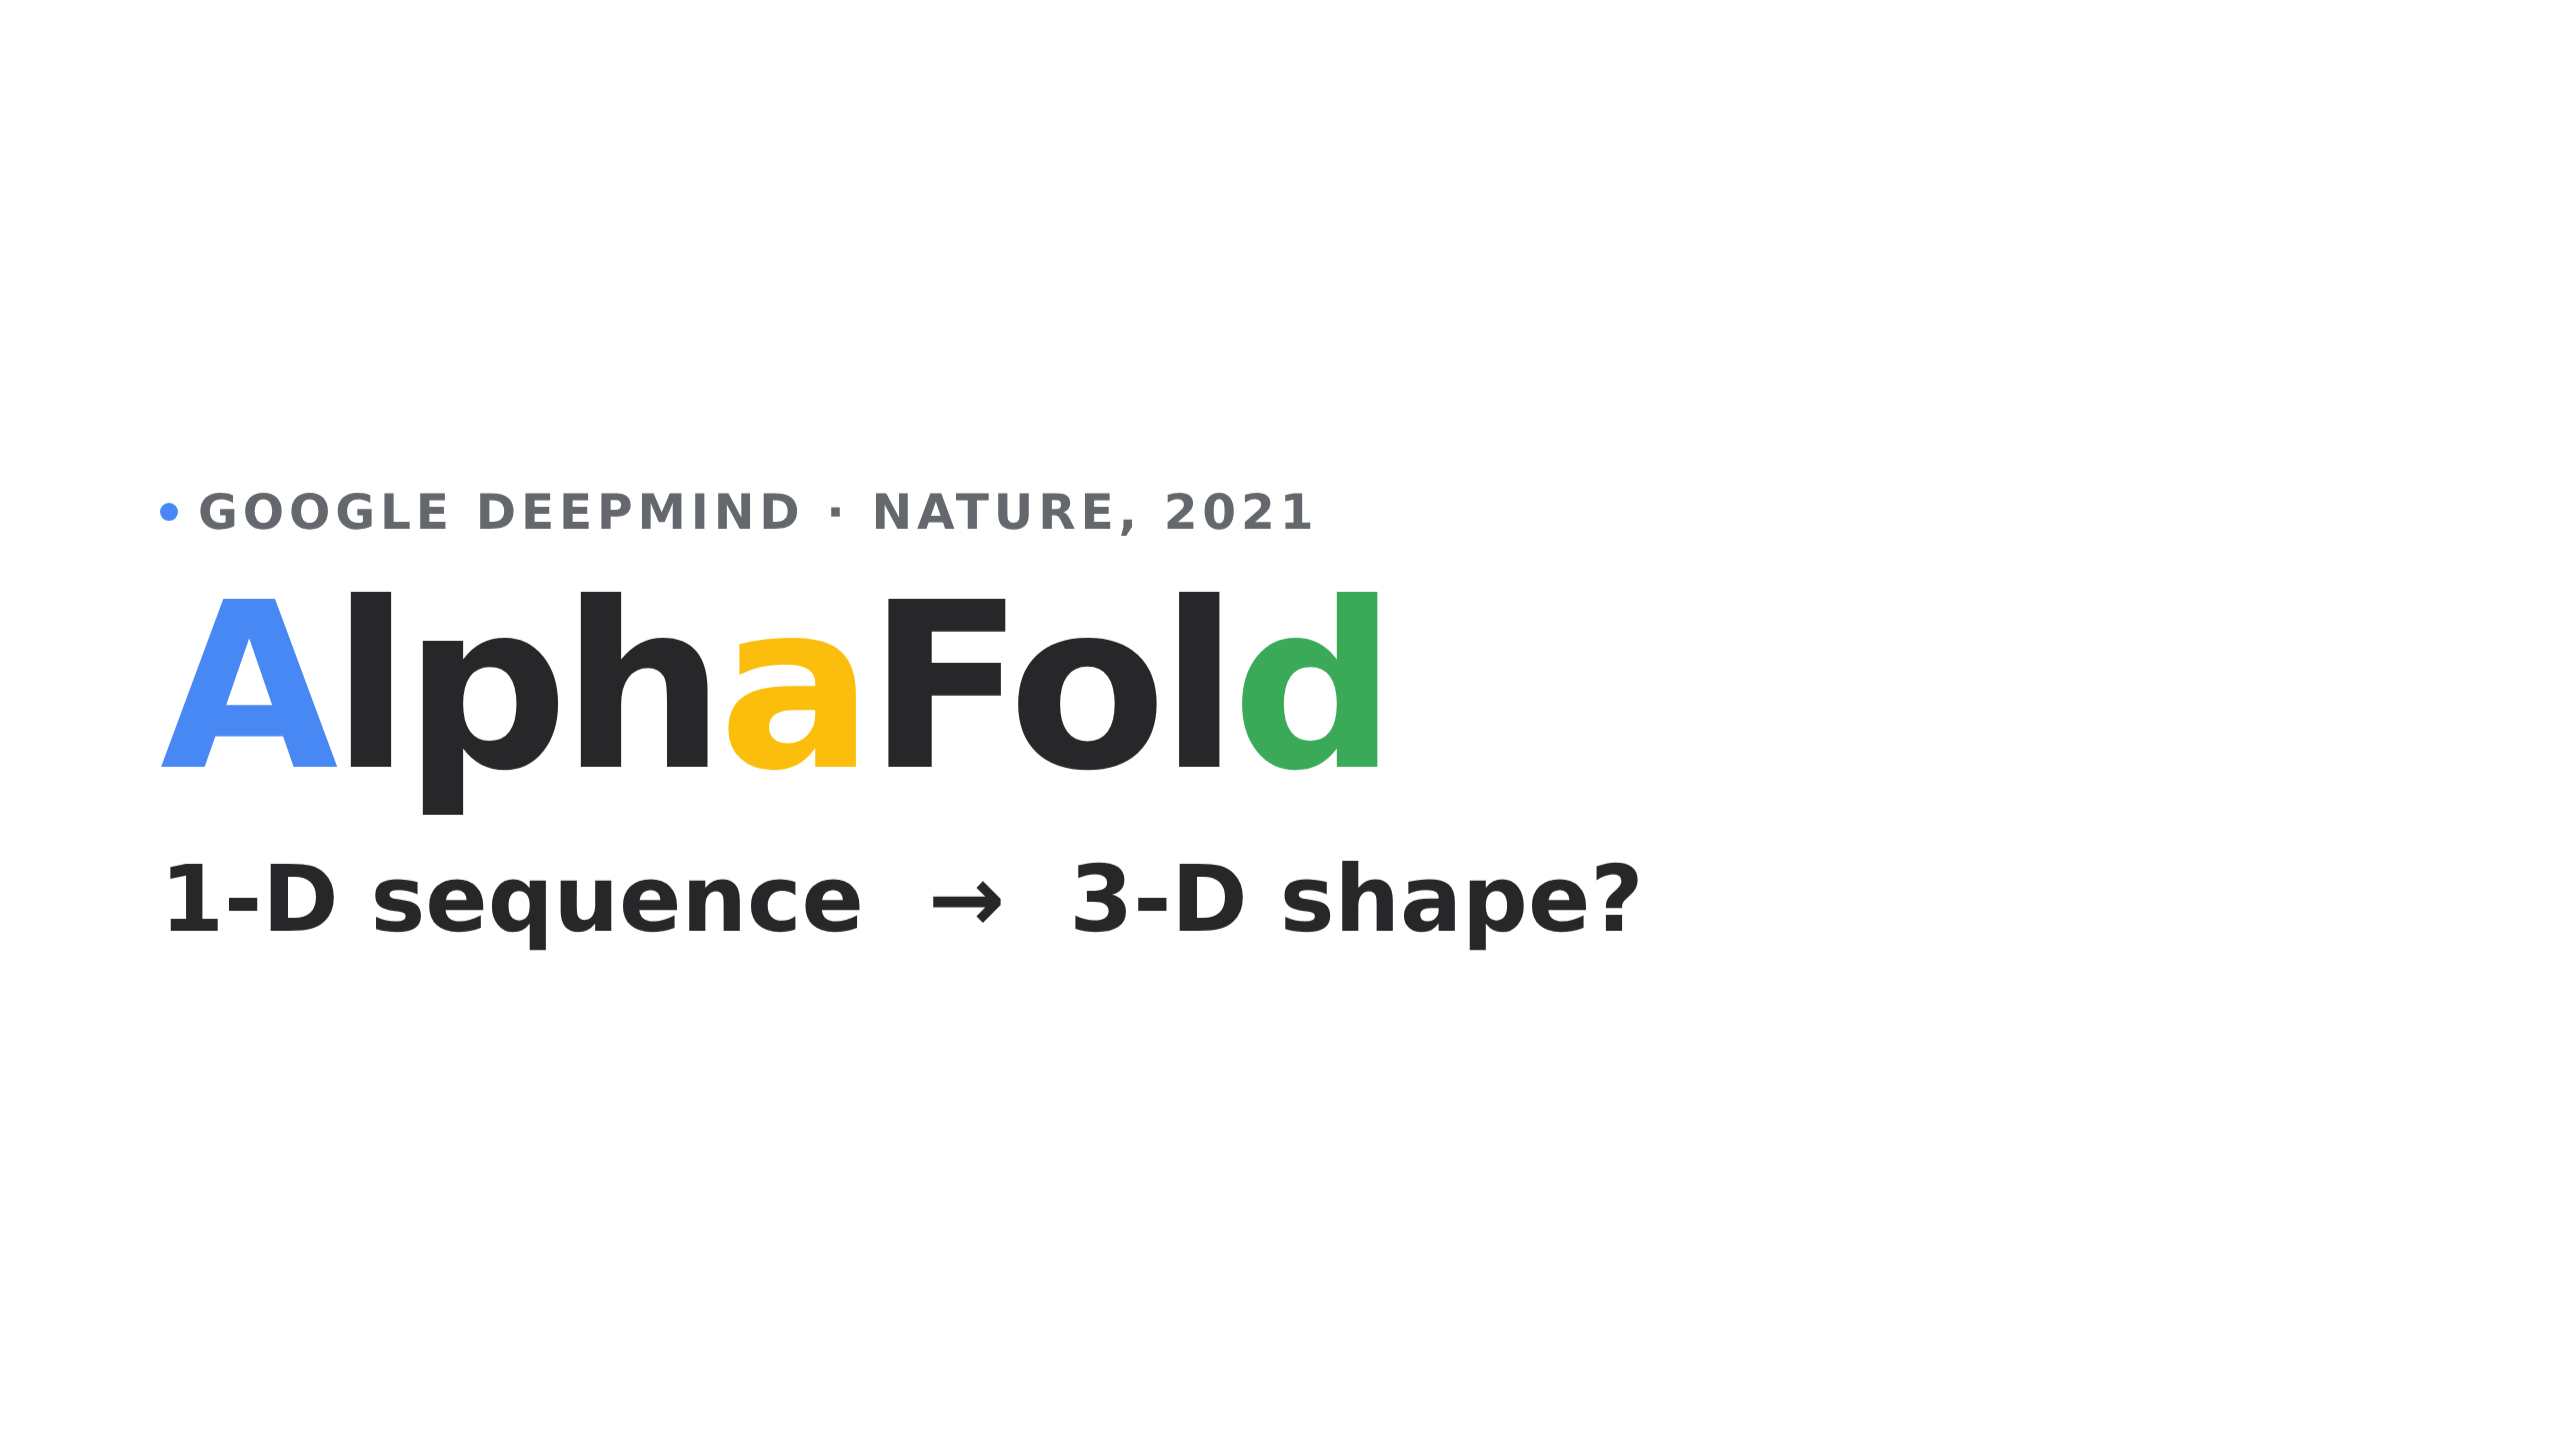
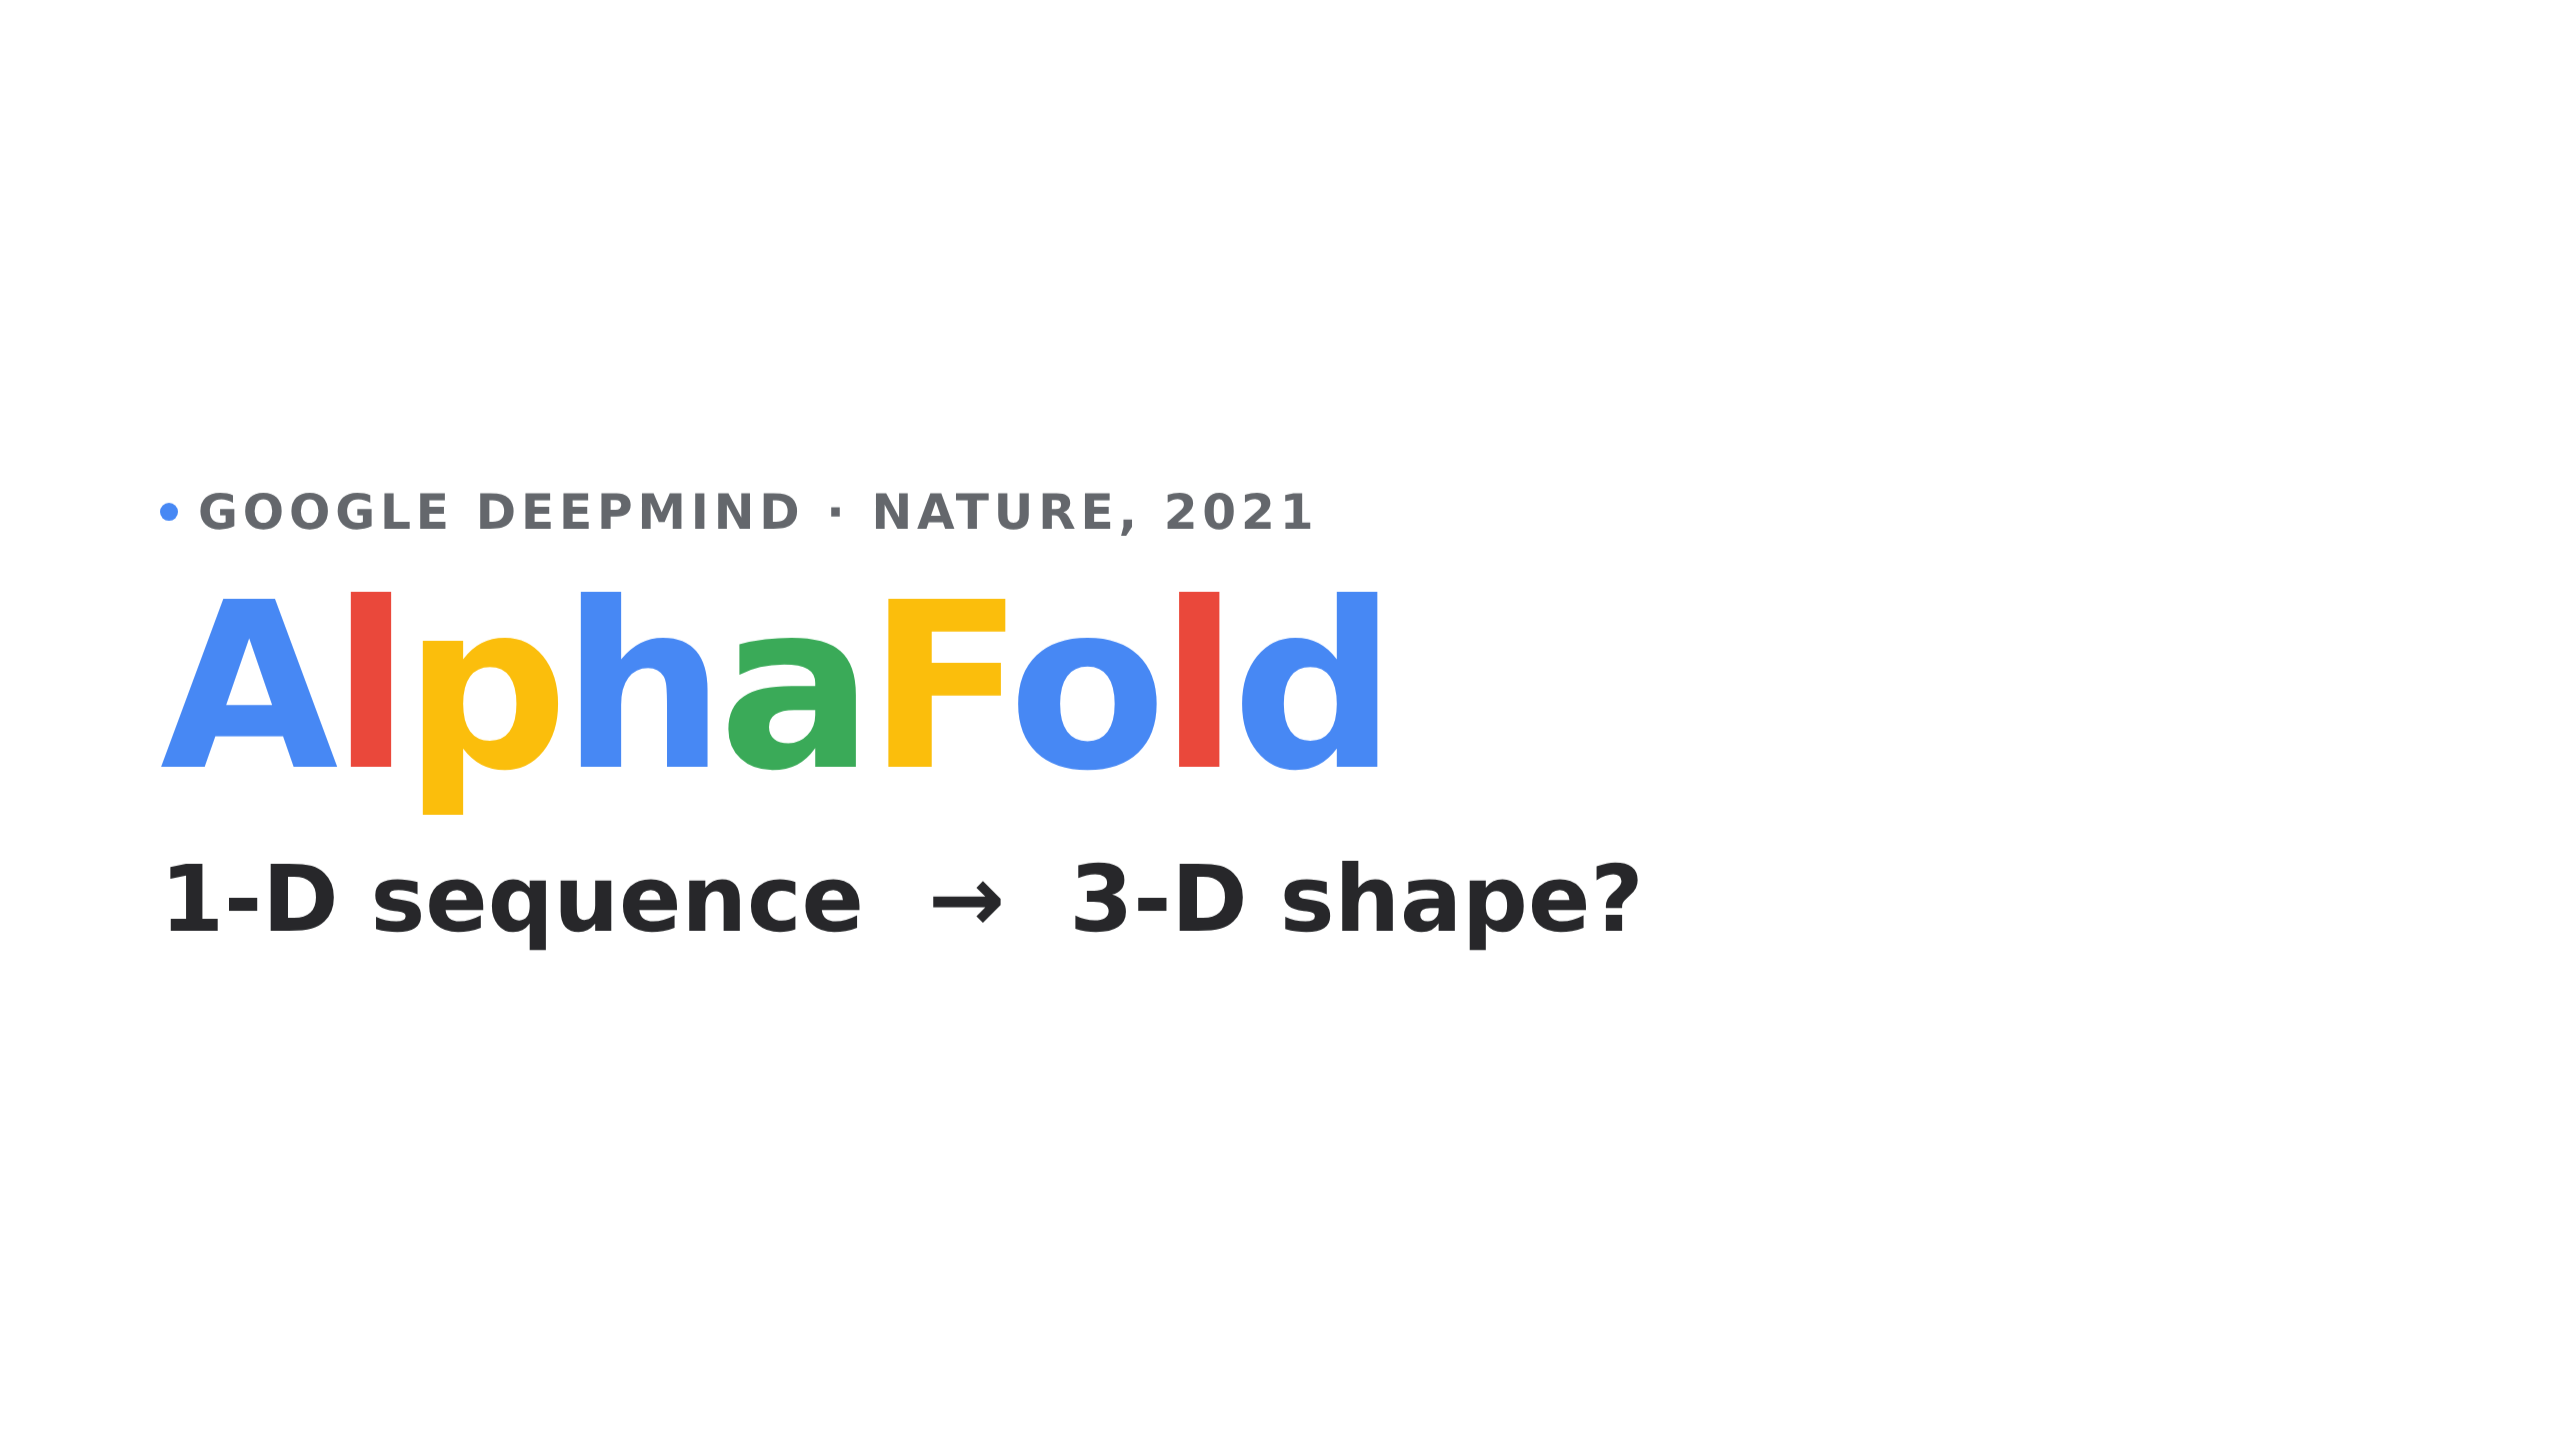
Restore full Google-color wordmark, keep black subtitle
Claude-Session: https://claude.ai/code/session_01Bs5QxwcQxX81M5Q77HARNf

Changed region(s): [[0.125, 0.4062, 0.5625, 0.5625]]

diff --git a/presentation/alphafold.html b/presentation/alphafold.html
@@ -122,12 +122,12 @@
   /* ---------- title fold ---------- */
   .title-wrap { display:flex; flex-direction:column; gap: clamp(18px,3vh,30px); }
   .wordmark { font-weight:700; letter-spacing:-.03em; }
-  /* calmer wordmark: ink base with three Google accents evenly spaced (A blue · a yellow · d green) */
-  .wordmark .a1{color:var(--g-blue);} .wordmark .a2{color:var(--ink);}
-  .wordmark .a3{color:var(--ink);} .wordmark .a4{color:var(--ink);}
-  .wordmark .a5{color:var(--g-yellow);} .wordmark .a6{color:var(--ink);}
-  .wordmark .a7{color:var(--ink);} .wordmark .a8{color:var(--ink);}
-  .wordmark .a9{color:var(--g-green);}
+  /* full Google-color wordmark; ordered so red and green never sit adjacent */
+  .wordmark .a1{color:var(--g-blue);} .wordmark .a2{color:var(--g-red);}
+  .wordmark .a3{color:var(--g-yellow);} .wordmark .a4{color:var(--g-blue);}
+  .wordmark .a5{color:var(--g-green);} .wordmark .a6{color:var(--g-yellow);}
+  .wordmark .a7{color:var(--g-blue);} .wordmark .a8{color:var(--g-red);}
+  .wordmark .a9{color:var(--g-blue);}
 
   /* ---------- stat ---------- */
   .stat-row { display:flex; flex-wrap:wrap; gap: clamp(20px,4vw,52px); }
